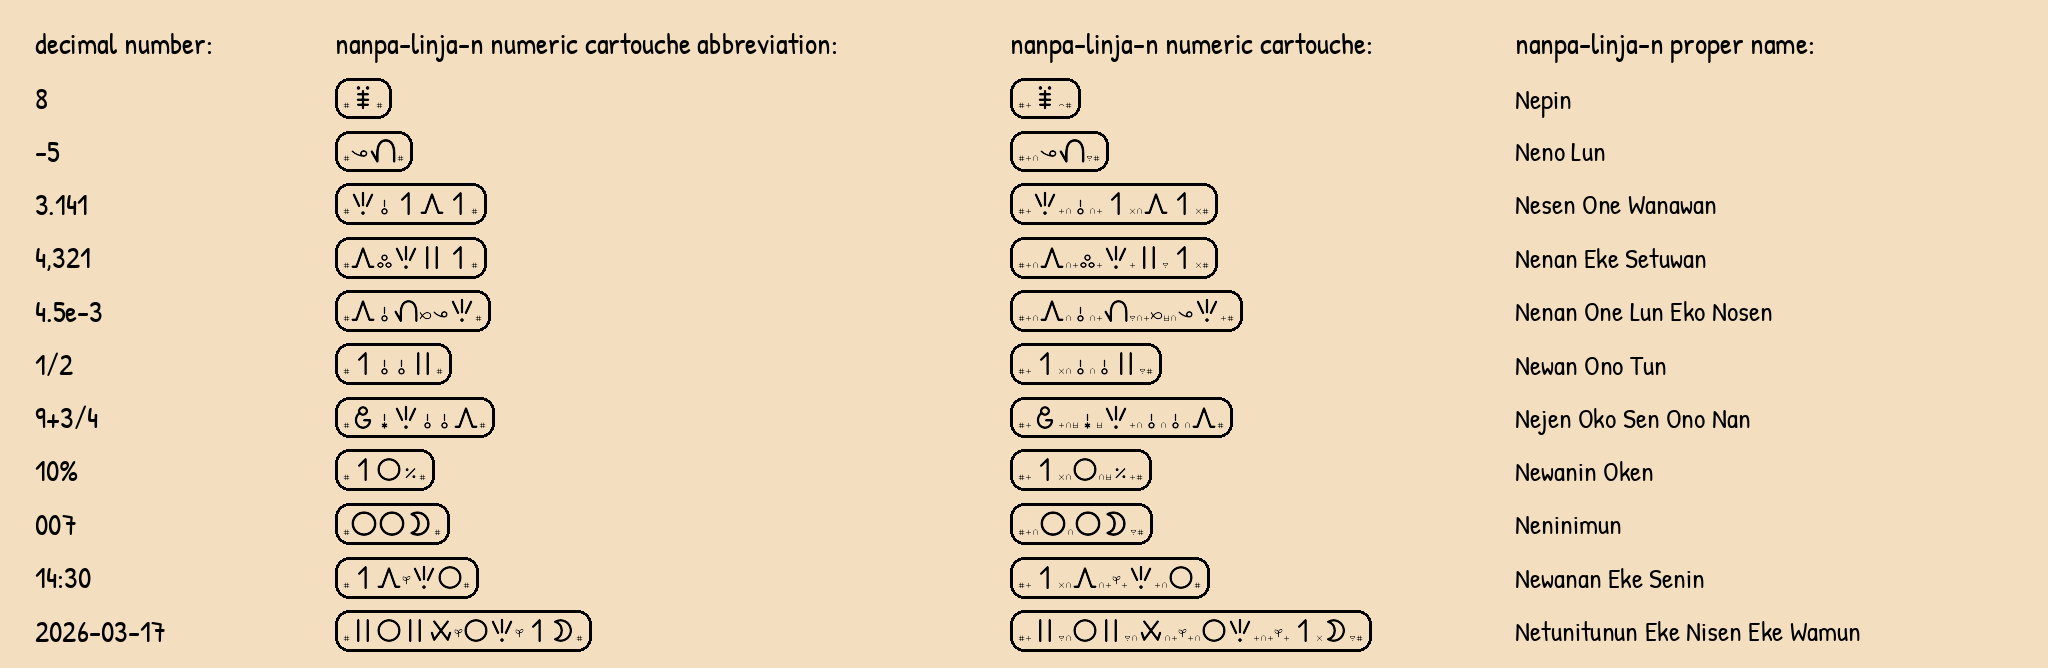
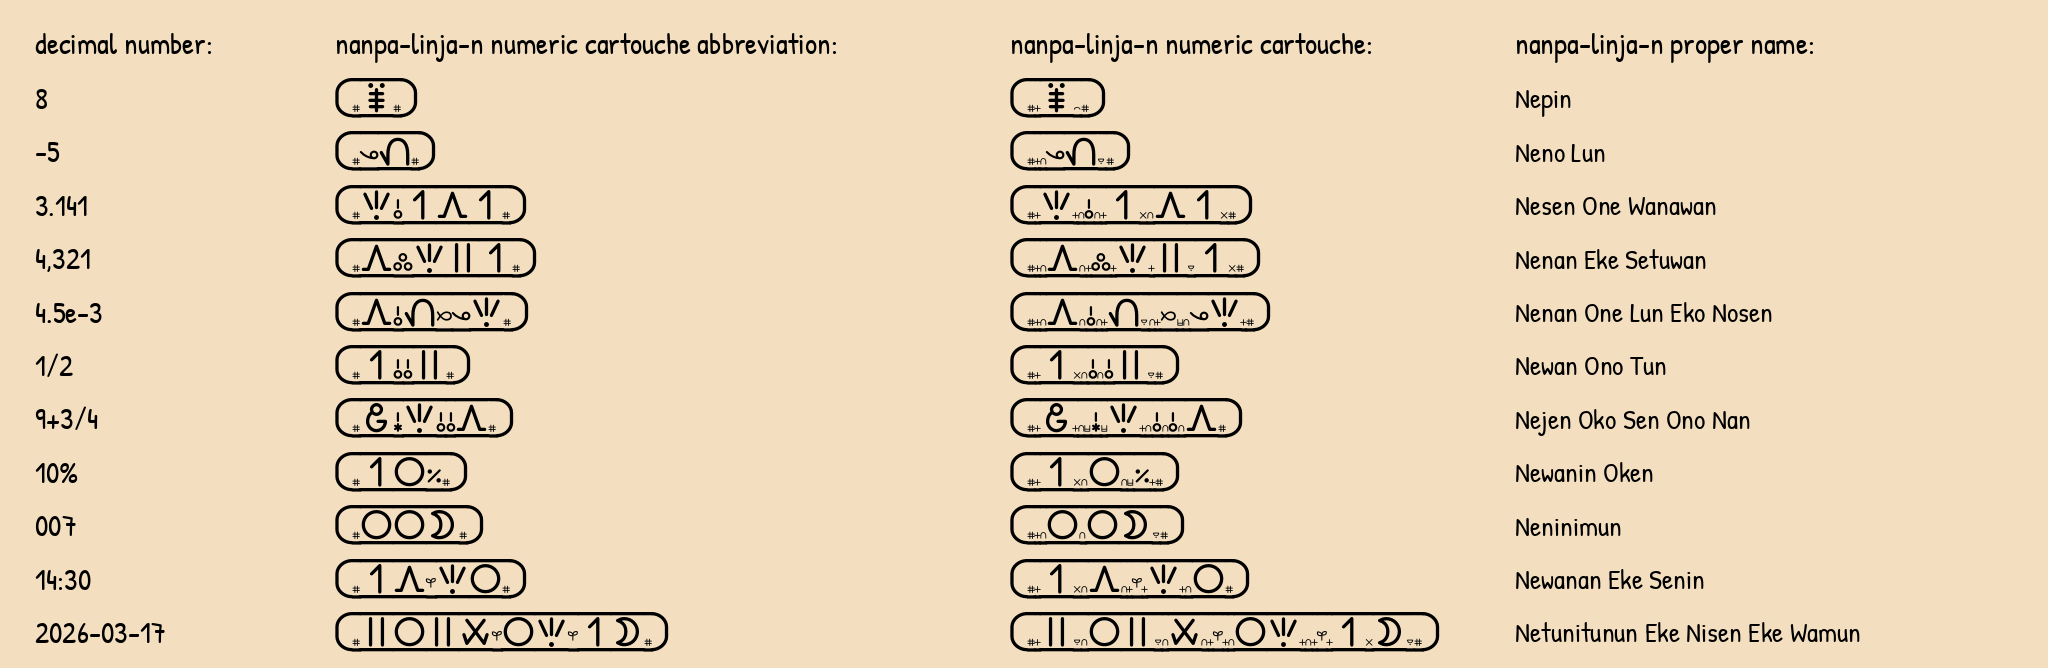
updated docs

diff --git a/docs/index.html b/docs/index.html
@@ -1416,44 +1416,44 @@
       </h2>
         <div id="moreExamplesContent" class="collapsibleSectionContent" data-collapsible-content>
      <div class="help">&nbsp;</div>
-      <img id="decimalToCartouche" class="portrait1" src="./images/From_Decimal_Number_To_Cartouche.png"  />
+      <img id="decimalToCartouche" class="portrait1" src="./images/From_Decimal_Number_To_Cartouche.png?v=2"  />
       <div class="help">&nbsp;</div>
 
       <hr class="miniDivider"/>
 
       <div class="help">&nbsp;</div>
-      <img class="portrait2" src="./images/nanpa-linja-n_cartouche_abbreviation.png?v=2" />
+      <img class="portrait2" src="./images/nanpa-linja-n_cartouche_abbreviation.png?v=3" />
       <div class="help">&nbsp;</div>
       
        <hr class="miniDivider"/>
 
 
       <div class="help">&nbsp;</div>
-      <img id="nanpa-linja-n-abbreviated-numeric-cartouche-examples" width="1550" src="./images/numeric_cartouche_to_decimal_number.png?v=11" />
+      <img id="nanpa-linja-n-abbreviated-numeric-cartouche-examples" width="1550" src="./images/numeric_cartouche_to_decimal_number.png?v=12" />
       <div class="help">&nbsp;</div>
       
        <hr class="miniDivider"/>
 
        <div class="help">&nbsp;</div>
-      <img id="nanpa-linja-n-abbreviated-numeric-cartouche-examples" width="1550" src="./images/nanpa-linja-n-cartouche-abbrev-examples.png?v=4" />
+      <img id="nanpa-linja-n-abbreviated-numeric-cartouche-examples" width="1550" src="./images/nanpa-linja-n-cartouche-abbrev-examples.png?v=5" />
       <div class="help">&nbsp;</div>
       
        <hr class="miniDivider"/>
 
           <div class="help">&nbsp;</div>
-      <img id="nanpa-linja-n-abbreviated-numeric-cartouche-examples" width="500" src="./images/arithmetic_operations_examples.png?v=5" />
+      <img id="nanpa-linja-n-abbreviated-numeric-cartouche-examples" width="500" src="./images/arithmetic_operations_examples.png?v=6" />
       <div class="help">&nbsp;</div>
       
        <hr class="miniDivider"/>
 
     <div class="help">&nbsp;</div>
-      <img width="1500" src="./images/nanpa_linja_n_examples_with_rationale_fact_sheet.png?v=22" />
+      <img width="1500" src="./images/nanpa_linja_n_examples_with_rationale_fact_sheet.png?v=23" />
       <div class="help">&nbsp;</div>
       
        <hr class="miniDivider"/>
 
         <div class="help">&nbsp;</div>
-      <img width="1100" src="./images/numeric_decimal_cartouche_examples.png?v=4" />
+      <img width="1100" src="./images/numeric_decimal_cartouche_examples.png?v=5" />
       <div class="help">&nbsp;</div>
       
       

diff --git a/docs/text-to-sitelen.html b/docs/text-to-sitelen.html
@@ -557,12 +557,16 @@ nanpa #~WI.
       <details id="appExamplesPanel" class="help" style="margin-top:10px;">
         <summary style="cursor:pointer; font-weight:700;">Examples</summary>
         <div class="help">&nbsp;</div>
-        <img class="portrait1" src="./images/From_Decimal_Number_To_Cartouche.png"  />
+        <img class="portrait1" src="./images/From_Decimal_Number_To_Cartouche.png?v=2"  />
         <div class="help">&nbsp;</div>
 
         <div class="help">&nbsp;</div>
-        <img class="portrait2" src="./images/nanpa-linja-n_cartouche_abbreviation.png?v=2" />
+        <img class="portrait2" src="./images/nanpa-linja-n_cartouche_abbreviation.png?v=3" />
         <div class="help">&nbsp;</div>
+
+         <div class="help">&nbsp;</div>
+      <img class="portrait3" width="1550" src="./images/nanpa-linja-n-cartouche-abbrev-examples.png?v=5" />
+      <div class="help">&nbsp;</div>
       </details>
 
       <script>
